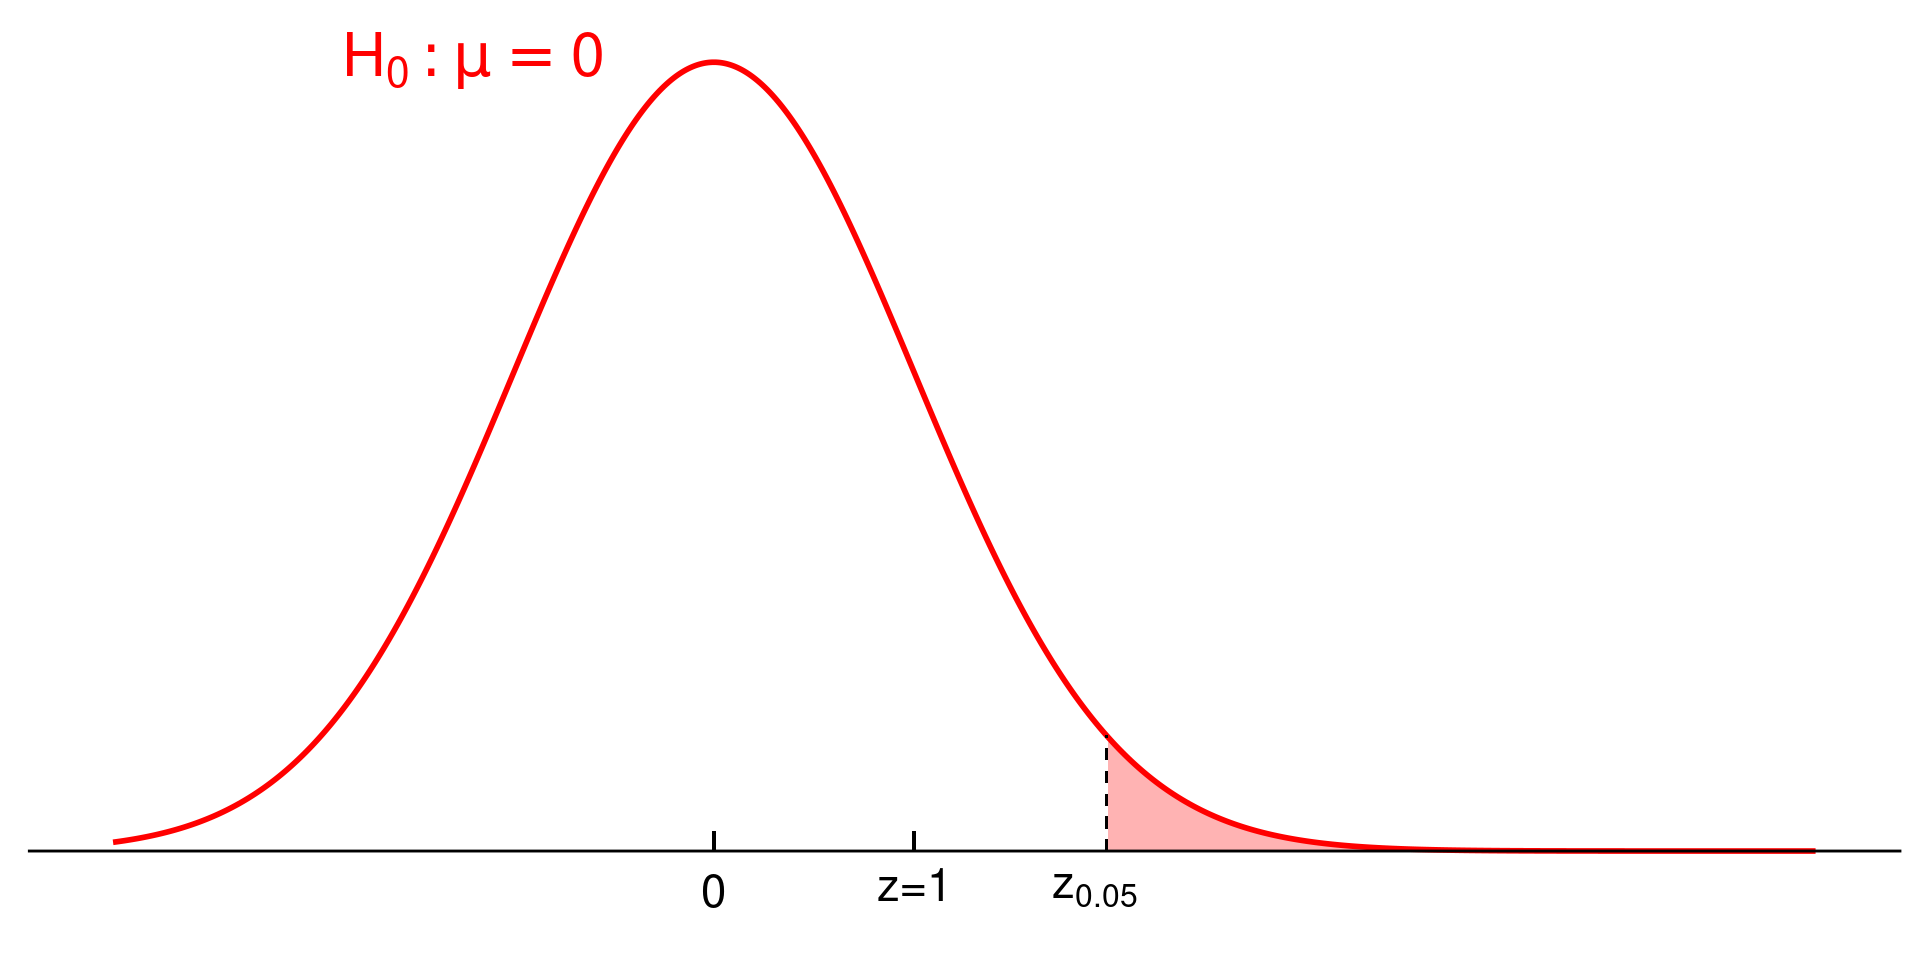
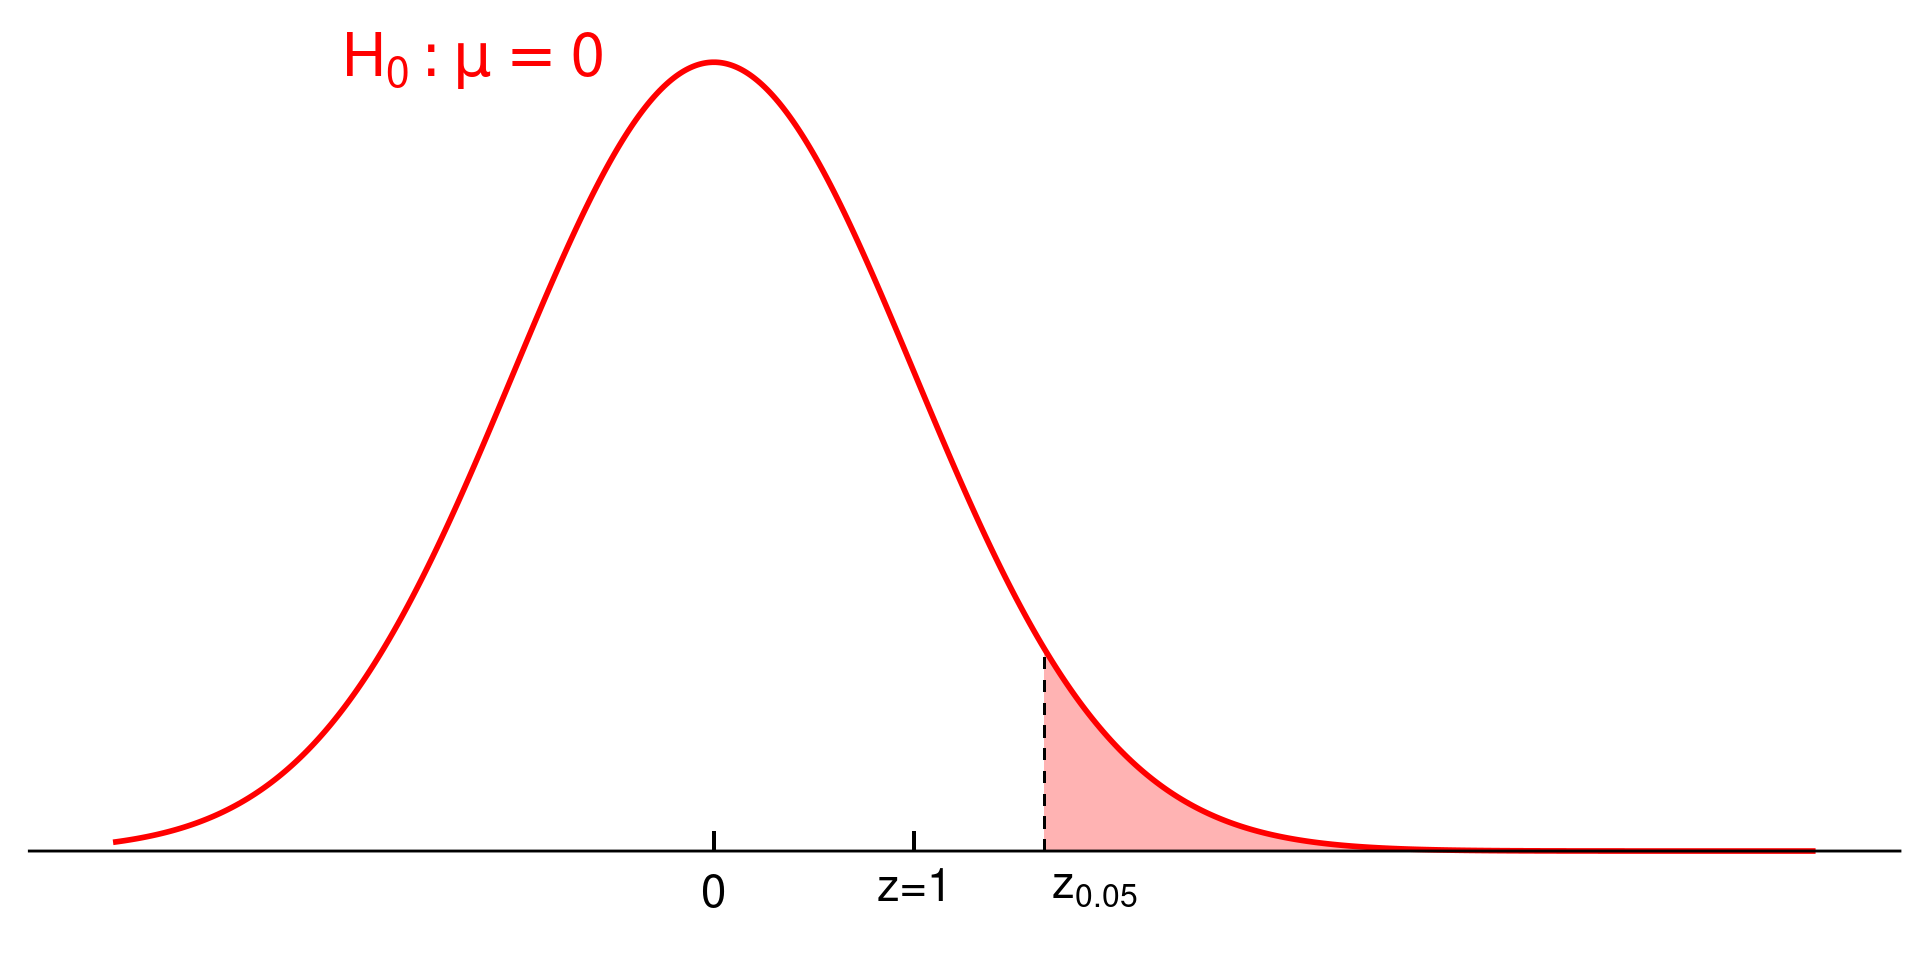
Version 3

Changed region(s): [[0.5312, 0.6875, 0.5938, 0.9062]]

diff --git a/docs/teaching_demo.html b/docs/teaching_demo.html
@@ -340,6 +340,29 @@ Shengbin Ye
 </section>
 <section id="how-do-we-decide" class="slide level2 mid" data-auto-animate="true">
 <h2 data-id="quarto-animate-title">How do we decide?</h2>
+<aside class="notes">
+<ul>
+<li>Let’s take 1-sample Z-test as an example</li>
+<li>hold for other HT</li>
+<li>In order to determine whether our observations make sence under H_0</li>
+<li>we need to know what’s normal under H_0</li>
+<li>To this end, we will need something called the Test Stat</li>
+<li>The null distribution of Test Stat can help us determine what’s normal and what isn’t</li>
+<li>In this case, what distribution does Z have under H_0?</li>
+<li>Pair up with your neighbors and discuss</li>
+<li>Regroup in 30s to share your ideas</li>
+</ul>
+<style type="text/css">
+        span.MJX_Assistive_MathML {
+          position:absolute!important;
+          clip: rect(1px, 1px, 1px, 1px);
+          padding: 1px 0 0 0!important;
+          border: 0!important;
+          height: 1px!important;
+          width: 1px!important;
+          overflow: hidden!important;
+          display:block!important;
+      }</style></aside>
 <div class="fragment">
 <p>Suppose <span class="math inline">\(X_1, \ldots, X_n \overset{\text{iid}}{\sim} N(\mu, \sigma^2)\)</span>, where <span class="math inline">\(\sigma^2\)</span> is known. Want to test</p>
 <p><span class="math display">\[H_0: \mu = \mu_0 \quad\text{vs}\quad H_1: \mu &gt; \mu_0\]</span> at <span class="math inline">\(\alpha\)</span> level of significance (say <span class="math inline">\(\alpha=0.05\)</span>).</p>
@@ -351,6 +374,23 @@ Shengbin Ye
 </section>
 <section id="how-do-we-decide-1" class="slide level2 mid" data-visibility="uncounted" data-auto-animate="true">
 <h2 data-id="quarto-animate-title">How do we decide?</h2>
+<aside class="notes">
+<ul>
+<li>The alternative tells us what’s intereting to us</li>
+<li>In this case, the greater than alternative indicates that we are interested in large values of mu</li>
+<li>So we reject H_0 when we observe large test statistics</li>
+</ul>
+<style type="text/css">
+        span.MJX_Assistive_MathML {
+          position:absolute!important;
+          clip: rect(1px, 1px, 1px, 1px);
+          padding: 1px 0 0 0!important;
+          border: 0!important;
+          height: 1px!important;
+          width: 1px!important;
+          overflow: hidden!important;
+          display:block!important;
+      }</style></aside>
 <p>Suppose <span class="math inline">\(X_1, \ldots, X_n \overset{\text{iid}}{\sim} N(\mu, \sigma^2)\)</span>, where <span class="math inline">\(\sigma^2\)</span> is known. Want to test</p>
 <p><span class="math display">\[H_0: \mu = \mu_0 \quad\text{vs}\quad \class{green-box}{H_1: \mu &gt; \mu_0}\]</span> at <span class="math inline">\(\alpha\)</span> level of significance (say <span class="math inline">\(\alpha=0.05\)</span>).</p>
 <p><strong>Test Statistics</strong></p>
@@ -363,6 +403,25 @@ Shengbin Ye
 </section>
 <section id="decision-rule" class="slide level2">
 <h2>Decision Rule</h2>
+<aside class="notes">
+<ul>
+<li>A visualization of the rejection region</li>
+<li>Since we are interested in large values of Z</li>
+<li>we want to reject H_0 if Z surpasses a large threshold</li>
+<li>z_0.05 seems like a reasonable choice</li>
+<li>a random draw larger than z_0.05 only happen with 5% chance</li>
+</ul>
+<style type="text/css">
+        span.MJX_Assistive_MathML {
+          position:absolute!important;
+          clip: rect(1px, 1px, 1px, 1px);
+          padding: 1px 0 0 0!important;
+          border: 0!important;
+          height: 1px!important;
+          width: 1px!important;
+          overflow: hidden!important;
+          display:block!important;
+      }</style></aside>
 
 <img data-src="teaching_demo_files/figure-revealjs/unnamed-chunk-2-1.png" width="960" class="r-stretch"><p>Decision rule: <span class="math inline">\(z \geq z_{0.05}\)</span></p>
 </section>
@@ -373,6 +432,23 @@ Shengbin Ye
 </section>
 <section id="decision-rule-2" class="slide level2" data-visibility="uncounted">
 <h2>Decision Rule</h2>
+<aside class="notes">
+<ul>
+<li>very skeptical about H_0 being true</li>
+<li>according to the decision rule</li>
+<li>we should reject H_0</li>
+</ul>
+<style type="text/css">
+        span.MJX_Assistive_MathML {
+          position:absolute!important;
+          clip: rect(1px, 1px, 1px, 1px);
+          padding: 1px 0 0 0!important;
+          border: 0!important;
+          height: 1px!important;
+          width: 1px!important;
+          overflow: hidden!important;
+          display:block!important;
+      }</style></aside>
 
 <img data-src="teaching_demo_files/figure-revealjs/unnamed-chunk-4-1.png" width="960" class="r-stretch"><p>Decision rule: <span class="math inline">\(z \geq z_{0.05}\)</span> <span class="fragment">✅ <span class="math inline">\(\implies\)</span> Reject <span class="math inline">\(H_0\)</span></span></p>
 </section>
@@ -388,6 +464,23 @@ Shengbin Ye
 </section>
 <section id="reality-check" class="slide level2">
 <h2>Reality Check</h2>
+<aside class="notes">
+<ul>
+<li>1st row is the true state of nature</li>
+<li>altough unknown to us, there are only 2 possibilities</li>
+<li>1st column is our decision</li>
+</ul>
+<style type="text/css">
+        span.MJX_Assistive_MathML {
+          position:absolute!important;
+          clip: rect(1px, 1px, 1px, 1px);
+          padding: 1px 0 0 0!important;
+          border: 0!important;
+          height: 1px!important;
+          width: 1px!important;
+          overflow: hidden!important;
+          display:block!important;
+      }</style></aside>
 <div style="margin-bottom: 2em;">
 
 </div>
@@ -452,8 +545,7 @@ Shengbin Ye
 \begin{align}
   P(\text{Type I Error})
     &amp;= \class{fragment}{P(\text{reject } H_0 \mid H_0 \text{ is true})} \\[3px]
-    &amp;\class{fragment}{{} = P(Z \geq z_\alpha } \class{fragment}{ \mid \mu = \mu_0)}         \\[3px]
-    &amp;\class{fragment}{{} = P(Z \geq z_\alpha \mid Z \sim N(0,1))}       \\[3px]
+    &amp;\class{fragment}{{} = P(Z \geq z_\alpha \mid} \class{fragment}{Z \sim N(0,1))}       \\[3px]
     &amp;\class{fragment}{{} = \alpha}
 \end{align}
 \]</span></p>
@@ -467,22 +559,20 @@ Shengbin Ye
 \begin{align}
   P(\text{Type I Error})
     &amp;= P(\text{reject } H_0 \mid H_0 \text{ is true}) \\[3px]
-    &amp;= P(Z \geq z_\alpha \mid \mu = \mu_0)            \\[3px]
     &amp;= P(Z \geq z_\alpha \mid Z \sim N(0,1))          \\[3px]
     &amp;= \alpha
 \end{align}
 \]</span></p>
-<div title="<span style='font-size: 1.75em; color: #0078D7;'>Theorem</span>">
+<div class="large" title="<span style='font-size: 1.5em; color: #0078D7;'>Theorem</span>">
 <div class="callout callout-note callout-titled callout-style-default">
 <div class="callout-body">
 <div class="callout-title">
 <div class="callout-icon-container">
 <i class="callout-icon"></i>
 </div>
-<p><strong><span style="font-size: 1.75em; color: #0078D7;">Theorem</span></strong></p>
+<p><strong><span style="font-size: 1.5em; color: #0078D7;">Theorem</span></strong></p>
 </div>
 <div class="callout-content">
-<div class="larger">
 <p><span class="math display">\[P(\text{Type I Error}) = \alpha \qquad \forall \, \text{HT}\]</span></p>
 <div>
 <ul>
@@ -490,6 +580,20 @@ Shengbin Ye
 </ul>
 </div>
 </div>
+</div>
+</div>
+</div>
+<div class="fragment" title="<span style='font-size: 1.5em; color: #B8860B;'>Pop Quiz 🤔</span>">
+<div class="callout callout-warning callout-titled callout-style-default">
+<div class="callout-body">
+<div class="callout-title">
+<div class="callout-icon-container">
+<i class="callout-icon"></i>
+</div>
+<p><strong><span style="font-size: 1.5em; color: #B8860B;">Pop Quiz 🤔</span></strong></p>
+</div>
+<div class="callout-content">
+<p><span class="larger">Can we set <span class="math inline">\(\alpha\)</span> to 0?</span></p>
 </div>
 </div>
 </div>
@@ -502,6 +606,24 @@ Shengbin Ye
 </section>
 <section id="section-2" class="slide level2" data-auto-animate="true">
 <h2 data-id="quarto-animate-title"></h2>
+<aside class="notes">
+<ul>
+<li>Let’s say you can generate samples from the null distribution</li>
+<li>and perform as many HT as you wish</li>
+<li>how would you estimate P(Type I Error)?</li>
+<li>count how many tests would wrongfully reject H_0</li>
+</ul>
+<style type="text/css">
+        span.MJX_Assistive_MathML {
+          position:absolute!important;
+          clip: rect(1px, 1px, 1px, 1px);
+          padding: 1px 0 0 0!important;
+          border: 0!important;
+          height: 1px!important;
+          width: 1px!important;
+          overflow: hidden!important;
+          display:block!important;
+      }</style></aside>
 <div title="<span style='font-size: 1.5em; color: #44745A;'>Rejection Rule for $H_1: \mu > \mu_0$</span>">
 <div class="callout callout-tip callout-titled callout-style-default">
 <div class="callout-body">
@@ -512,7 +634,7 @@ Shengbin Ye
 <p><strong><span style="font-size: 1.5em; color: #44745A;">Rejection Rule for <span class="math inline">\(H_1: \mu &gt; \mu_0\)</span></span></strong></p>
 </div>
 <div class="callout-content">
-<p><span class="fragment"><span class="math display">\[z = \frac{\bar{x} - \mu_0}{\sigma/\sqrt{n}} \geq z_{\alpha}\]</span></span></p>
+<p><span class="math display">\[z = \frac{\bar{x} - \mu_0}{\sigma/\sqrt{n}} \geq z_{\alpha}\]</span></p>
 </div>
 </div>
 </div>
@@ -525,7 +647,7 @@ Shengbin Ye
 <span id="cb1-4" class="hljs-ln-code"><a></a>mu0 <span class="ot">&lt;-</span> <span class="dv">0</span>               <span class="co"># H_0: mu = 0</span></span>
 <span id="cb1-5" class="hljs-ln-code"><a></a>sigma <span class="ot">&lt;-</span> <span class="dv">1</span>; n <span class="ot">&lt;-</span> <span class="dv">50</span>    <span class="co"># sd and sample size</span></span>
 <span id="cb1-6" class="hljs-ln-code"><a></a>alpha <span class="ot">&lt;-</span> <span class="fl">0.05</span>          <span class="co"># significance level</span></span>
-<span id="cb1-7" class="hljs-ln-code"><a></a>z_alpha <span class="ot">&lt;-</span> <span class="fu">qnorm</span>(alpha, <span class="at">lower.tail =</span> F)  <span class="co"># ~1.96</span></span>
+<span id="cb1-7" class="hljs-ln-code"><a></a>z_alpha <span class="ot">&lt;-</span> <span class="fu">qnorm</span>(alpha, <span class="at">lower.tail =</span> F)  <span class="co"># ~1.65</span></span>
 <span id="cb1-8" class="hljs-ln-code"><a></a>n_rej <span class="ot">&lt;-</span> <span class="dv">0</span></span></code><button title="Copy to Clipboard" class="code-copy-button"><i class="bi"></i></button></pre></div>
 </div>
 </div>
@@ -554,7 +676,7 @@ Shengbin Ye
 <span id="cb2-4" class="hljs-ln-code"><a></a>mu0 <span class="ot">&lt;-</span> <span class="dv">0</span>               <span class="co"># H_0: mu = 0</span></span>
 <span id="cb2-5" class="hljs-ln-code"><a></a>sigma <span class="ot">&lt;-</span> <span class="dv">1</span>; n <span class="ot">&lt;-</span> <span class="dv">50</span>    <span class="co"># sd and sample size</span></span>
 <span id="cb2-6" class="hljs-ln-code"><a></a>alpha <span class="ot">&lt;-</span> <span class="fl">0.05</span>          <span class="co"># significance level</span></span>
-<span id="cb2-7" class="hljs-ln-code"><a></a>z_alpha <span class="ot">&lt;-</span> <span class="fu">qnorm</span>(alpha, <span class="at">lower.tail =</span> F)  <span class="co"># ~1.96</span></span>
+<span id="cb2-7" class="hljs-ln-code"><a></a>z_alpha <span class="ot">&lt;-</span> <span class="fu">qnorm</span>(alpha, <span class="at">lower.tail =</span> F)  <span class="co"># ~1.65</span></span>
 <span id="cb2-8" class="hljs-ln-code"><a></a>n_rej <span class="ot">&lt;-</span> <span class="dv">0</span></span>
 <span id="cb2-9" class="hljs-ln-code"><a></a></span>
 <span id="cb2-10" class="hljs-ln-code"><a></a><span class="co"># Conduct 10000 HT</span></span>
@@ -589,7 +711,7 @@ Shengbin Ye
 <span id="cb3-4" class="hljs-ln-code"><a></a>mu0 <span class="ot">&lt;-</span> <span class="dv">0</span>               <span class="co"># H_0: mu = 0</span></span>
 <span id="cb3-5" class="hljs-ln-code"><a></a>sigma <span class="ot">&lt;-</span> <span class="dv">1</span>; n <span class="ot">&lt;-</span> <span class="dv">50</span>    <span class="co"># sd and sample size</span></span>
 <span id="cb3-6" class="hljs-ln-code"><a></a>alpha <span class="ot">&lt;-</span> <span class="fl">0.05</span>          <span class="co"># significance level</span></span>
-<span id="cb3-7" class="hljs-ln-code"><a></a>z_alpha <span class="ot">&lt;-</span> <span class="fu">qnorm</span>(alpha, <span class="at">lower.tail =</span> F)  <span class="co"># ~1.96</span></span>
+<span id="cb3-7" class="hljs-ln-code"><a></a>z_alpha <span class="ot">&lt;-</span> <span class="fu">qnorm</span>(alpha, <span class="at">lower.tail =</span> F)  <span class="co"># ~1.65</span></span>
 <span id="cb3-8" class="hljs-ln-code"><a></a>n_rej <span class="ot">&lt;-</span> <span class="dv">0</span></span>
 <span id="cb3-9" class="hljs-ln-code"><a></a></span>
 <span id="cb3-10" class="hljs-ln-code"><a></a><span class="co"># Conduct HT for 10000 times</span></span>
@@ -609,6 +731,25 @@ Shengbin Ye
 </section>
 <section id="how-should-we-interpret-alpha" class="slide level2">
 <h2>How should we interpret <span class="math inline">\(\alpha\)</span>?</h2>
+<aside class="notes">
+<ul>
+<li>what gives?</li>
+<li>although having a observed test statistics larger than z_0.05 is uncommon</li>
+<li>it’s not impossible</li>
+<li>in these rare instances, we would think H_1 makes more sence</li>
+<li>but in fact, H_0 is true</li>
+</ul>
+<style type="text/css">
+        span.MJX_Assistive_MathML {
+          position:absolute!important;
+          clip: rect(1px, 1px, 1px, 1px);
+          padding: 1px 0 0 0!important;
+          border: 0!important;
+          height: 1px!important;
+          width: 1px!important;
+          overflow: hidden!important;
+          display:block!important;
+      }</style></aside>
 <div title="<span style='font-size: 1.3em; color: #0078D7;'>Interpretation</span>">
 <div class="callout callout-note callout-titled callout-style-default">
 <div class="callout-body">
@@ -634,6 +775,22 @@ Shengbin Ye
 </section>
 <section id="how-likely-is-a-type-ii-error" class="slide level2 mid">
 <h2>How likely is a Type II Error?</h2>
+<aside class="notes">
+<ul>
+<li>but what does it really mean?</li>
+<li>it means that X_bar ~ N(mu_1, sigma^2)</li>
+</ul>
+<style type="text/css">
+        span.MJX_Assistive_MathML {
+          position:absolute!important;
+          clip: rect(1px, 1px, 1px, 1px);
+          padding: 1px 0 0 0!important;
+          border: 0!important;
+          height: 1px!important;
+          width: 1px!important;
+          overflow: hidden!important;
+          display:block!important;
+      }</style></aside>
 <div title="<span style='font-size: 1em; color: #44745A;'>Rejection Rule for $H_1: \mu > \mu_0$</span>">
 <div class="callout callout-tip callout-titled callout-style-default">
 <div class="callout-body">
@@ -664,6 +821,22 @@ Shengbin Ye
 </section>
 <section id="how-likely-is-a-type-ii-error-1" class="slide level2 scrollable">
 <h2>How likely is a Type II Error?</h2>
+<aside class="notes">
+<ul>
+<li>Deconstruct the complex test stat to simpler RV</li>
+<li>Reconstruct to a nice RV</li>
+</ul>
+<style type="text/css">
+        span.MJX_Assistive_MathML {
+          position:absolute!important;
+          clip: rect(1px, 1px, 1px, 1px);
+          padding: 1px 0 0 0!important;
+          border: 0!important;
+          height: 1px!important;
+          width: 1px!important;
+          overflow: hidden!important;
+          display:block!important;
+      }</style></aside>
 <div class="small">
 <p><span class="math display">\[
 \begin{align}
@@ -781,6 +954,25 @@ Shengbin Ye
 </section>
 <section id="how-do-we-interpret-beta" class="slide level2">
 <h2>How do we interpret <span class="math inline">\(\beta\)</span>?</h2>
+<aside class="notes">
+<ul>
+<li>We picked z_0.05 based on H_0</li>
+<li>Now that H_1 is true</li>
+<li>faiure to reject H_0 will lead to a wrong conclusion</li>
+<li>That is, any observed test statistics to left of z_0.05</li>
+<li>will result in a Type II error</li>
+</ul>
+<style type="text/css">
+        span.MJX_Assistive_MathML {
+          position:absolute!important;
+          clip: rect(1px, 1px, 1px, 1px);
+          padding: 1px 0 0 0!important;
+          border: 0!important;
+          height: 1px!important;
+          width: 1px!important;
+          overflow: hidden!important;
+          display:block!important;
+      }</style></aside>
 <div title="<span style='font-size: 1.3em; color: #0078D7;'>Interpretation</span>">
 <div class="callout callout-note callout-titled callout-style-default">
 <div class="callout-body">
